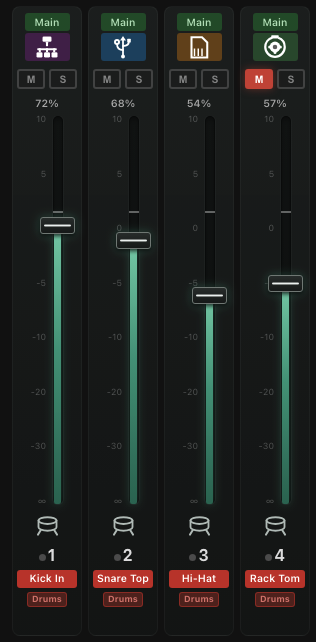
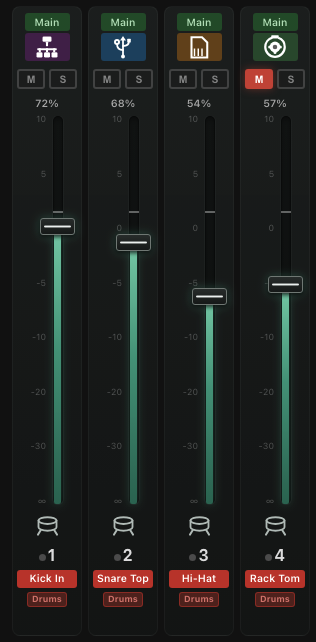
refactor: extract the Run-mode interlock so it is testable, and fix a gain hole
CI failed the coverage gate on the previous commit: branches fell to
40.87% against a 42% threshold. The threshold comment says never to lower
these to make a run pass, and it is right — the shortfall was real. The
new channel controls put a pile of branching decisions into index.ts,
which sits at 0% because it is an Electron entry point.

Those decisions did not belong there anyway. Whether a switch, a gain
change or a preset recall is permitted was written out twice — once in the
IPC handlers behind the channel menu, once in the MIDI command executor —
and the whole point of enforcing it in the main process is that a
controller sending the wrong note is refused on exactly the same terms as
a stray click. Two copies of that rule is the drift it was meant to
prevent. It now lives in switch-policy.ts, called from both, and is
testable without standing up an app.

Writing those tests found a hole. decideGainWrite coerced with Number(),
and Number(null), Number('') and Number([]) are all 0 — so a missing or
malformed gain value was accepted and quietly set the preamp to the bottom
of its range instead of being refused. It now accepts only a number or a
non-empty string.

Coverage is 42.4 / 42.6 / 43.1 / 42.7, and the thresholds are ratcheted up
to match per the note in the config. 639 tests, up from 622.

diff --git a/src/main/index.ts b/src/main/index.ts
@@ -8,11 +8,14 @@ import * as os from 'os';
 import { MidiManager } from './midi-manager';
 import { MixerManager } from './mixer-manager';
 import { MappingEngine } from './mapping-engine';
+import { clampCount } from './ipc-validators';
 import {
-  clampCount,
-  asChannelSwitch,
-  RUN_MODE_BLOCKED_SWITCHES,
-} from './ipc-validators';
+  decideSwitchWrite,
+  decideGainWrite,
+  decidePresetRecall,
+  asAppMode,
+  type AppMode,
+} from './switch-policy';
 import { compareVersions, pickLatestVersion } from './update-checker';
 import { buildLevelFeedback } from './midi-feedback';
 import { subnetHosts, isInSubnet } from './net-utils';
@@ -121,7 +124,7 @@ let currentPresetPath: string | null = null;
  * the interlock behind that, for the case where a bug, a stale window, or a
  * mis-sent IPC would otherwise flip phantom power mid-performance.
  */
-let appMode: 'edit' | 'run' = 'edit';
+let appMode: AppMode = 'edit';
 
 // Skip DCA polling when no DCA channels are mapped (saves CPU)
 mixerManager.setDcaMappingsChecker(() =>
@@ -276,29 +279,28 @@ async function initializeApp() {
             }
             break;
           case 'switch': {
-            const switchName = asChannelSwitch(command.switchName);
-            if (!switchName || !('type' in command.channel) || command.channel.channel === undefined) break;
+            if (!('type' in command.channel) || command.channel.channel === undefined) break;
 
-            // A MIDI message is not exempt from the Run-mode interlock. A
-            // controller sending the wrong note must not be able to flip
-            // phantom power mid-performance any more than a stray click can.
-            if (appMode === 'run' && RUN_MODE_BLOCKED_SWITCHES.includes(switchName)) break;
+            // A MIDI message is not exempt from the Run-mode interlock — the
+            // same decision, from the same place, as a click in the UI.
+            const decision = decideSwitchWrite(appMode, command.switchName);
+            if (!decision.allowed) break;
 
-            const swKey = `switch-${switchName}-${command.channel.type}-${command.channel.channel}`;
+            const swKey = `switch-${decision.switchName}-${command.channel.type}-${command.channel.channel}`;
             if (shouldToggle(swKey)) {
               mixerManager.setChannelSwitch(
-                command.channel.type, command.channel.channel, switchName, Boolean(command.toggle)
+                command.channel.type, command.channel.channel, decision.switchName, Boolean(command.toggle)
               );
             }
             break;
           }
-          case 'gain':
-            // Gain is Edit-mode only from the UI, and the same applies here.
-            if (appMode === 'run') break;
-            if (command.value !== undefined && 'type' in command.channel && command.channel.channel !== undefined) {
-              mixerManager.setPreampGain(command.channel.type, command.channel.channel, command.value);
-            }
+          case 'gain': {
+            if (!('type' in command.channel) || command.channel.channel === undefined) break;
+            const decision = decideGainWrite(appMode, command.value);
+            if (!decision.allowed) break;
+            mixerManager.setPreampGain(command.channel.type, command.channel.channel, decision.decibels);
             break;
+          }
         }
       } catch (error) {
         console.error('Command failed:', command.action, error);
@@ -1540,8 +1542,8 @@ ipcMain.handle('set-channel-input-source', async (_event, type: string, channel:
   }
 });
 
-ipcMain.handle('set-app-mode', async (_event, mode: string) => {
-  appMode = mode === 'run' ? 'run' : 'edit';
+ipcMain.handle('set-app-mode', async (_event, mode: unknown) => {
+  appMode = asAppMode(mode);
   return { success: true, mode: appMode };
 });
 
@@ -1562,19 +1564,12 @@ ipcMain.handle(
         return { success: false, error: 'Not connected to mixer' };
       }
 
-      const switchName = asChannelSwitch(name);
-      if (!switchName) {
-        return { success: false, error: `Unknown channel switch: ${String(name)}` };
+      const decision = decideSwitchWrite(appMode, name);
+      if (!decision.allowed) {
+        return { success: false, error: decision.error };
       }
 
-      if (appMode === 'run' && RUN_MODE_BLOCKED_SWITCHES.includes(switchName)) {
-        return {
-          success: false,
-          error: `${switchName} cannot be changed in Run mode — switch to Edit mode first`,
-        };
-      }
-
-      mixerManager.setChannelSwitch(type, channel, switchName, Boolean(state));
+      mixerManager.setChannelSwitch(type, channel, decision.switchName, Boolean(state));
       return { success: true, state: Boolean(state) };
     } catch (error) {
       const errorMessage = error instanceof Error ? error.message : String(error);
@@ -1605,14 +1600,11 @@ ipcMain.handle(
       if (!mixerManager.isConnected()) {
         return { success: false, error: 'Not connected to mixer' };
       }
-      if (appMode === 'run') {
-        return { success: false, error: 'Preamp gain cannot be changed in Run mode' };
+      const decision = decideGainWrite(appMode, decibels);
+      if (!decision.allowed) {
+        return { success: false, error: decision.error };
       }
-      const value = Number(decibels);
-      if (!Number.isFinite(value)) {
-        return { success: false, error: 'Gain must be a number' };
-      }
-      mixerManager.setPreampGain(type, channel, value);
+      mixerManager.setPreampGain(type, channel, decision.decibels);
       return { success: true, gain: mixerManager.getPreampGain(type, channel) };
     } catch (error) {
       const errorMessage = error instanceof Error ? error.message : String(error);
@@ -1639,13 +1631,11 @@ ipcMain.handle(
       if (!mixerManager.isConnected()) {
         return { success: false, error: 'Not connected to mixer' };
       }
-      if (appMode === 'run') {
-        return { success: false, error: 'Channel presets cannot be recalled in Run mode' };
+      const decision = decidePresetRecall(appMode, presetFile);
+      if (!decision.allowed) {
+        return { success: false, error: decision.error };
       }
-      if (typeof presetFile !== 'string' || !presetFile.endsWith('.channel')) {
-        return { success: false, error: 'Invalid channel preset' };
-      }
-      await mixerManager.recallChannelPreset(type, channel, presetFile);
+      await mixerManager.recallChannelPreset(type, channel, decision.presetFile);
       return { success: true };
     } catch (error) {
       const errorMessage = error instanceof Error ? error.message : String(error);

diff --git a/tests/unit/switch-policy.test.ts b/tests/unit/switch-policy.test.ts
@@ -1,0 +1,136 @@
+/**
+ * The Run-mode interlock decides whether a channel control may be written, and
+ * it has to give the same answer to a click in the UI and to a MIDI message
+ * from a controller. These pin that equivalence, and the refusals themselves —
+ * which exist because phantom power can damage a ribbon microphone and a
+ * mis-set gain can cause feedback.
+ */
+
+import {
+  decideSwitchWrite,
+  decideGainWrite,
+  decidePresetRecall,
+  asAppMode,
+} from '../../src/main/switch-policy';
+
+describe('decideSwitchWrite', () => {
+  it('allows any switch in Edit mode', () => {
+    for (const name of ['phantom', 'polarity', 'mono', 'gate', 'compressor', 'eq', 'limiter']) {
+      const d = decideSwitchWrite('edit', name);
+      expect(d.allowed).toBe(true);
+      if (d.allowed) expect(d.switchName).toBe(name);
+    }
+  });
+
+  it('refuses phantom power and polarity in Run mode', () => {
+    for (const name of ['phantom', 'polarity']) {
+      const d = decideSwitchWrite('run', name);
+      expect(d.allowed).toBe(false);
+      if (!d.allowed) expect(d.error).toMatch(/Run mode/);
+    }
+  });
+
+  // Dropping a gate or bypassing a compressor mid-set is normal and instantly
+  // reversible, so those stay available while the interface is locked.
+  it('still allows the processor switches in Run mode', () => {
+    for (const name of ['mono', 'gate', 'compressor', 'eq', 'limiter']) {
+      expect(decideSwitchWrite('run', name).allowed).toBe(true);
+    }
+  });
+
+  it('refuses an unknown switch name in either mode', () => {
+    for (const mode of ['edit', 'run'] as const) {
+      const d = decideSwitchWrite(mode, 'preampgain');
+      expect(d.allowed).toBe(false);
+      if (!d.allowed) expect(d.error).toMatch(/Unknown channel switch/);
+    }
+  });
+
+  it('refuses non-string switch names', () => {
+    for (const bad of [undefined, null, 7, { name: 'phantom' }, ['phantom']]) {
+      expect(decideSwitchWrite('edit', bad).allowed).toBe(false);
+    }
+  });
+
+  // The point of the module: one decision, two call sites.
+  it('gives MIDI and the UI the same answer', () => {
+    const fromUi = decideSwitchWrite('run', 'phantom');
+    const fromMidi = decideSwitchWrite('run', 'phantom');
+    expect(fromMidi).toEqual(fromUi);
+  });
+});
+
+describe('decideGainWrite', () => {
+  it('allows a finite value in Edit mode', () => {
+    const d = decideGainWrite('edit', 20);
+    expect(d.allowed).toBe(true);
+    if (d.allowed) expect(d.decibels).toBe(20);
+  });
+
+  it('coerces a numeric string', () => {
+    const d = decideGainWrite('edit', '12.5');
+    expect(d.allowed).toBe(true);
+    if (d.allowed) expect(d.decibels).toBeCloseTo(12.5);
+  });
+
+  it('refuses any gain change in Run mode', () => {
+    const d = decideGainWrite('run', 20);
+    expect(d.allowed).toBe(false);
+    if (!d.allowed) expect(d.error).toMatch(/Run mode/);
+  });
+
+  it('refuses values that are not finite numbers', () => {
+    for (const bad of [NaN, Infinity, -Infinity, 'loud', undefined, {}, [], true]) {
+      expect(decideGainWrite('edit', bad).allowed).toBe(false);
+    }
+  });
+
+  // Number(null) and Number('') are 0, so without an explicit check a missing
+  // value would be accepted and quietly set the gain to the range minimum.
+  // Number(null), Number('') and Number([]) are all 0, so without a type check
+  // a missing value would be accepted and quietly set the range minimum.
+  it('refuses the values JavaScript would coerce to 0', () => {
+    for (const bad of [null, '', '   ', []]) {
+      expect(decideGainWrite('edit', bad).allowed).toBe(false);
+    }
+  });
+
+  // Range clamping is the API's job; this only guards what reaches it.
+  it('passes an out-of-range number through for the API to clamp', () => {
+    const d = decideGainWrite('edit', 999);
+    expect(d.allowed).toBe(true);
+    if (d.allowed) expect(d.decibels).toBe(999);
+  });
+});
+
+describe('decidePresetRecall', () => {
+  it('allows a .channel preset in Edit mode', () => {
+    const d = decidePresetRecall('edit', '07.Snare 1.Drum.channel');
+    expect(d.allowed).toBe(true);
+    if (d.allowed) expect(d.presetFile).toBe('07.Snare 1.Drum.channel');
+  });
+
+  it('refuses recall in Run mode — it replaces the whole strip', () => {
+    expect(decidePresetRecall('run', '07.Snare 1.Drum.channel').allowed).toBe(false);
+  });
+
+  it('refuses anything that is not a .channel file', () => {
+    for (const bad of ['01.Showfile.proj', 'evil.sh', '', undefined, null, 42, ['x.channel']]) {
+      expect(decidePresetRecall('edit', bad).allowed).toBe(false);
+    }
+  });
+});
+
+describe('asAppMode', () => {
+  it('recognises run mode', () => {
+    expect(asAppMode('run')).toBe('run');
+  });
+
+  // Anything unrecognised falls back to edit, which is the mode where the
+  // renderer's own guards are active rather than assumed.
+  it('treats anything else as edit', () => {
+    for (const v of ['edit', 'RUN', '', undefined, null, 1, {}]) {
+      expect(asAppMode(v)).toBe('edit');
+    }
+  });
+});

diff --git a/src/main/switch-policy.ts b/src/main/switch-policy.ts
@@ -1,0 +1,90 @@
+/**
+ * Policy for the channel controls that can do damage.
+ *
+ * These decisions are made in two places — the IPC handlers behind the channel
+ * menu, and the MIDI command executor — and a controller sending the wrong note
+ * must be refused on exactly the same terms as a stray click. Keeping the rules
+ * here rather than inline in both call sites is what stops the two drifting
+ * apart, and makes them testable without standing up an Electron app.
+ */
+
+import { asChannelSwitch, RUN_MODE_BLOCKED_SWITCHES, type ChannelSwitchId } from './ipc-validators';
+
+export type AppMode = 'edit' | 'run';
+
+export type PolicyDecision =
+  | { allowed: true; switchName: ChannelSwitchId }
+  | { allowed: false; error: string };
+
+/**
+ * Whether a switch may be written right now.
+ *
+ * Phantom power can damage ribbon microphones, and an accidental polarity flip
+ * on a summed source is a silent way to gut the low end mid-set, so both are
+ * refused while the interface is locked for performance. The processor
+ * switches stay available: bypassing a compressor during a show is a normal
+ * thing to want, and it is instantly reversible.
+ */
+export function decideSwitchWrite(mode: AppMode, name: unknown): PolicyDecision {
+  const switchName = asChannelSwitch(name);
+  if (!switchName) {
+    return { allowed: false, error: `Unknown channel switch: ${String(name)}` };
+  }
+  if (mode === 'run' && RUN_MODE_BLOCKED_SWITCHES.includes(switchName)) {
+    return {
+      allowed: false,
+      error: `${switchName} cannot be changed in Run mode — switch to Edit mode first`,
+    };
+  }
+  return { allowed: true, switchName };
+}
+
+/**
+ * Whether preamp gain may be written right now.
+ *
+ * Gain is a setup control — you ride the fader, not the preamp — and it is the
+ * one change in this group that can produce feedback, so it is Edit-mode only.
+ * A non-finite request is refused rather than passed to the mixer.
+ */
+export function decideGainWrite(
+  mode: AppMode,
+  decibels: unknown
+): { allowed: true; decibels: number } | { allowed: false; error: string } {
+  if (mode === 'run') {
+    return { allowed: false, error: 'Preamp gain cannot be changed in Run mode' };
+  }
+  // Accept only the two shapes that mean anything here, rather than coercing
+  // whatever arrives: Number(null), Number('') and Number([]) are all 0, so a
+  // missing or malformed value would otherwise be accepted and quietly set the
+  // gain to the bottom of the range instead of being refused.
+  const isNumeric =
+    typeof decibels === 'number' ||
+    (typeof decibels === 'string' && decibels.trim() !== '');
+  if (!isNumeric) {
+    return { allowed: false, error: 'Gain must be a number' };
+  }
+  const value = Number(decibels);
+  if (!Number.isFinite(value)) {
+    return { allowed: false, error: 'Gain must be a number' };
+  }
+  return { allowed: true, decibels: value };
+}
+
+/** Whether a console channel preset may be recalled right now. */
+export function decidePresetRecall(
+  mode: AppMode,
+  presetFile: unknown
+): { allowed: true; presetFile: string } | { allowed: false; error: string } {
+  if (mode === 'run') {
+    return { allowed: false, error: 'Channel presets cannot be recalled in Run mode' };
+  }
+  if (typeof presetFile !== 'string' || !presetFile.endsWith('.channel')) {
+    return { allowed: false, error: 'Invalid channel preset' };
+  }
+  return { allowed: true, presetFile };
+}
+
+/** Normalise whatever the renderer reports as the current mode. */
+export function asAppMode(value: unknown): AppMode {
+  return value === 'run' ? 'run' : 'edit';
+}

diff --git a/jest.config.js b/jest.config.js
@@ -21,15 +21,15 @@ module.exports = {
     '!src/shared/types.ts',
   ],
   coverageReporters: ['text', 'lcov'],
-  // Ratchet, set just under the measured figures (41.3 / 43.3 / 40.9 / 41.6).
+  // Ratchet, set just under the measured figures (42.4 / 42.6 / 43.1 / 42.7).
   // Raise these as coverage improves; never lower them to make a failing run
   // pass. index.ts, still at 0%, is the bulk of what is left uncovered.
   coverageThreshold: {
     global: {
-      statements: 40,
+      statements: 42,
       branches: 42,
-      functions: 39,
-      lines: 40,
+      functions: 43,
+      lines: 42,
     },
   },
   transform: {
